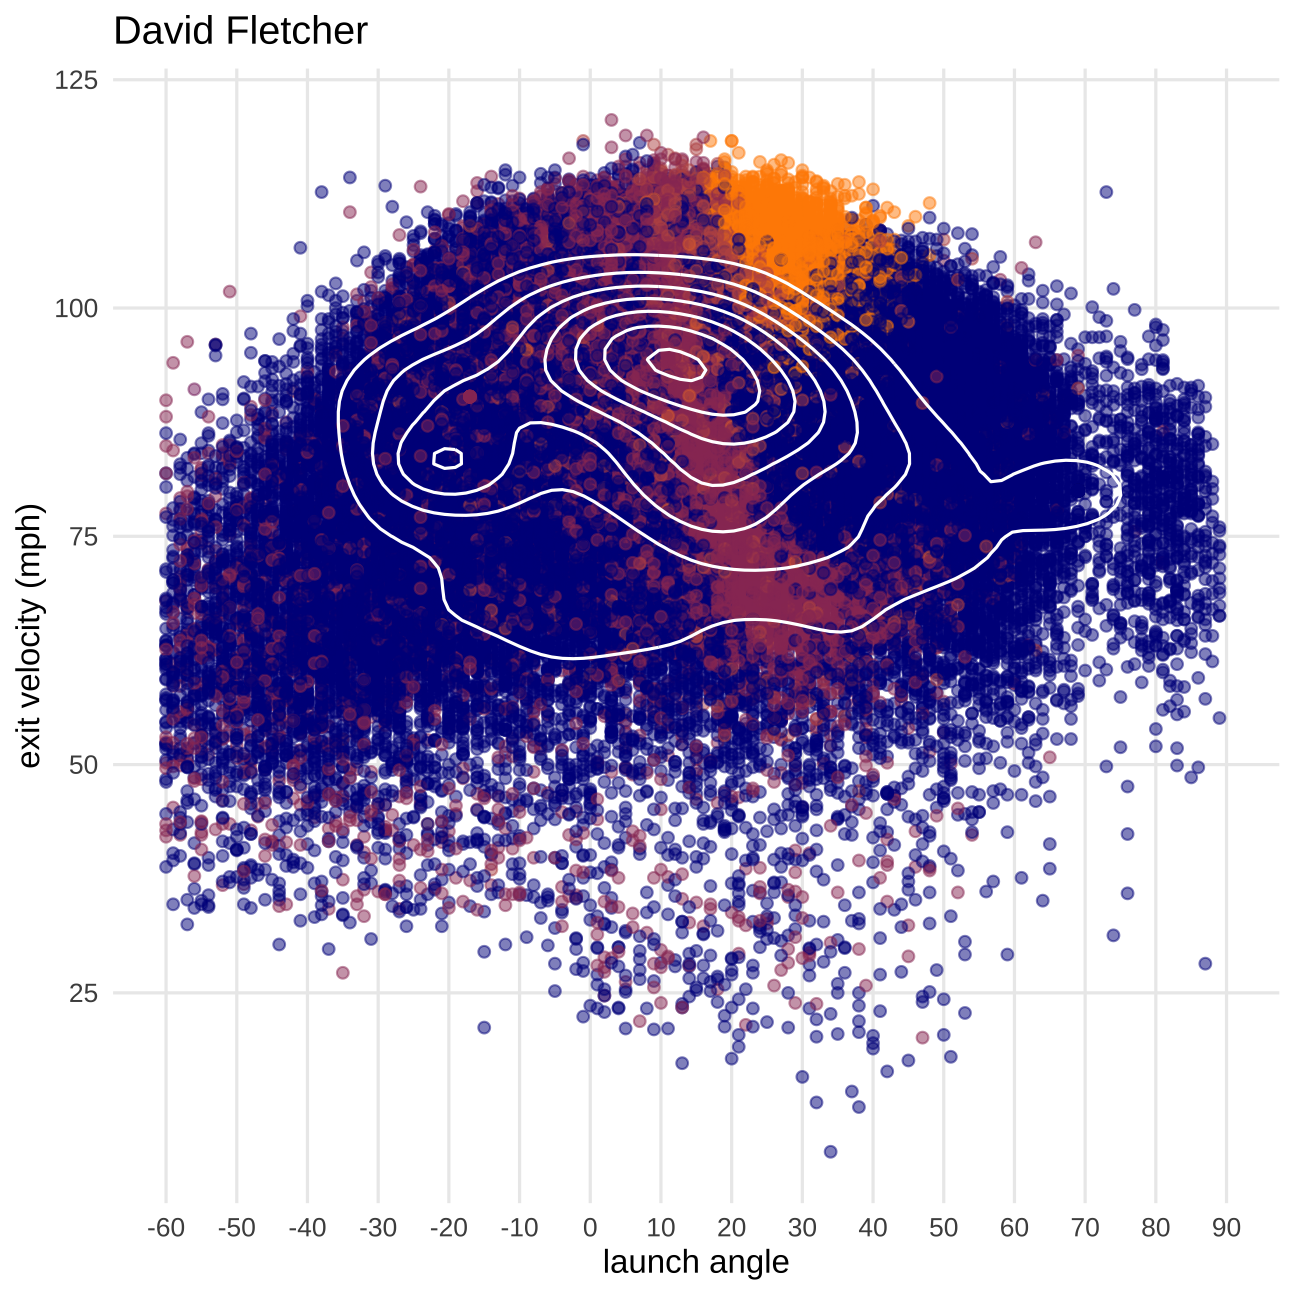
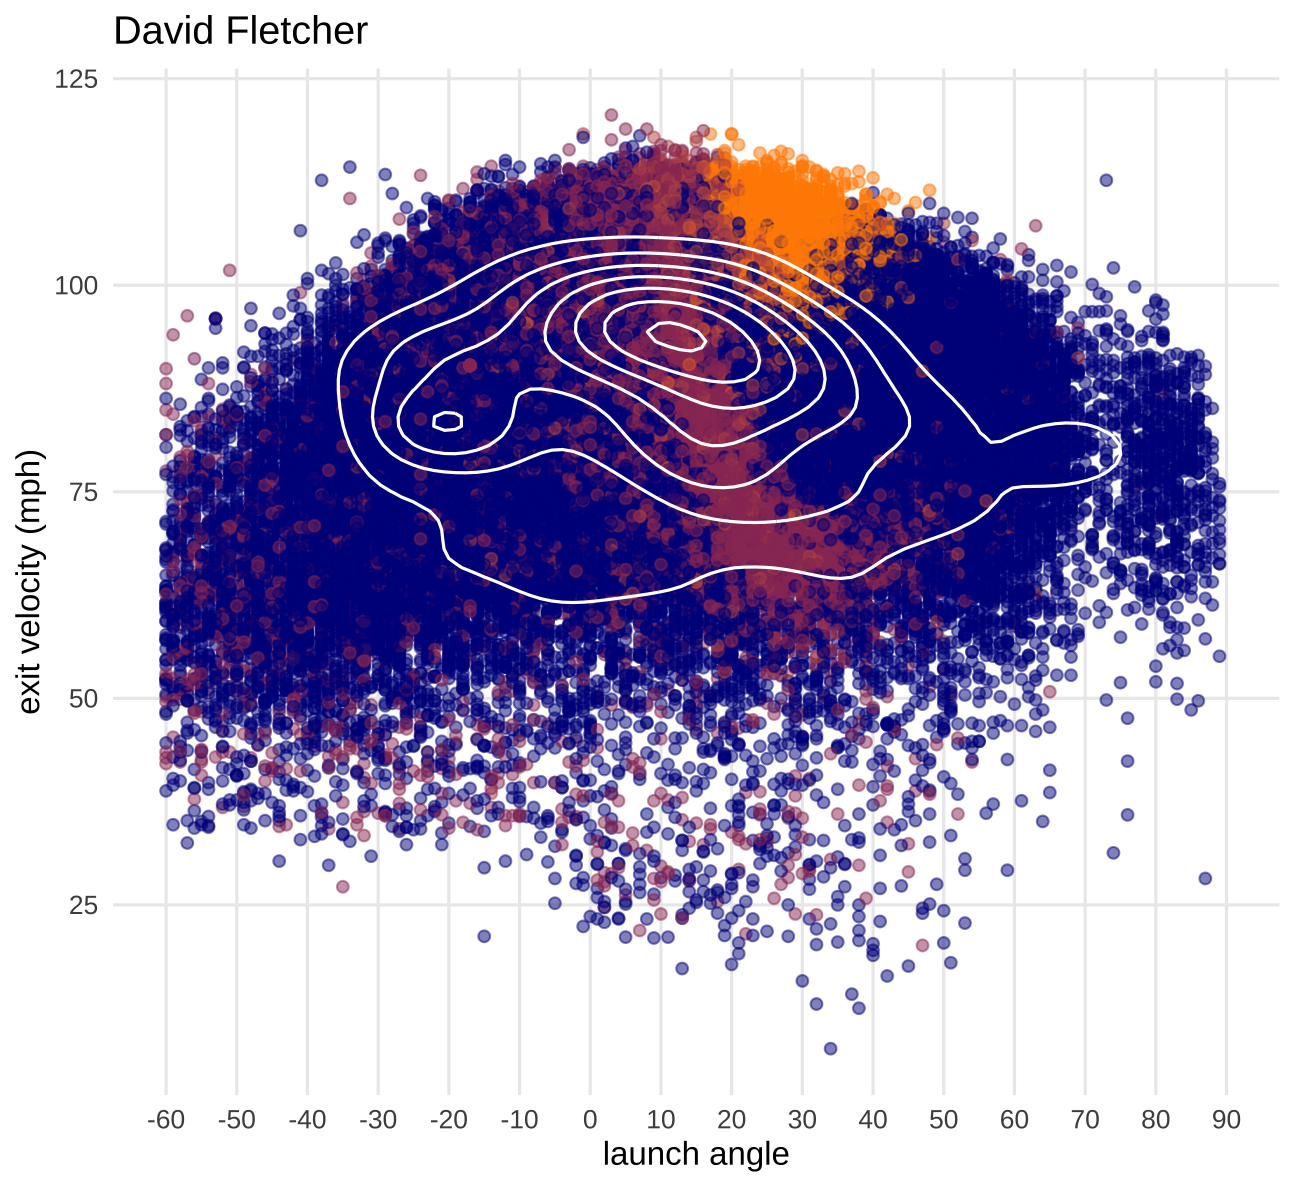
commiting presentation through trying to get function to work

diff --git a/Final EDA presentation/final_eda_presentation.html b/Final EDA presentation/final_eda_presentation.html
@@ -140,6 +140,41 @@ class: center, middle, inverse, title-slide
 &lt;img src="final_eda_presentation_files/figure-html/unnamed-chunk-11-1.png" width="432" style="display: block; margin: auto;" /&gt;
 ]
 ---
+### Now how can we model these player recommendations? 
+
+.pull-left[
+- We will fit a **Generalized Additive Model, or GAM**, to **launch angle** and 
+**exit velocity** with the target **wOBA**
+  - GAMs have the ability to model complex *non-linear and non-monotonic* relationships between predictors and response variables, such as we see when we smooth the relationship between predictors **exit velocity** and **launch angle** with **wOBA**. 
+]
+.pull-right[
+&lt;img src="final_eda_presentation_files/figure-html/unnamed-chunk-12-1.png" width="432" /&gt;
+
+&lt;img src="final_eda_presentation_files/figure-html/unnamed-chunk-13-1.png" width="432" /&gt;
+]
+---
+### Our first model missed out on the relationship *between* launch angle and exit velocity in impacting wOBA
+
+.pull-left[
+**Actual relationship**
+&lt;img src="final_eda_presentation_files/figure-html/unnamed-chunk-14-1.png" width="432" /&gt;
+
+]
+.pull-right[
+**Raster plot from wOBA as a function of s(launch angle) + s(exit velocity)**
+&lt;img src="final_eda_presentation_files/figure-html/unnamed-chunk-15-1.png" width="432" /&gt;
+]
+---
+### With an interaction in our model, we much better true relationships, such as the increased wOBA from extra base hits and the band of singles
+
+.pull-left[
+**Actual relationship**
+&lt;img src="final_eda_presentation_files/figure-html/unnamed-chunk-16-1.png" width="432" /&gt;
+]
+.pull-right[
+**Raster plot from wOBA as a function of s(launch angle, exit velocity, k=100)**
+&lt;img src="final_eda_presentation_files/figure-html/unnamed-chunk-17-1.png" width="432" /&gt;
+]
     </textarea>
 <style data-target="print-only">@media screen {.remark-slide-container{display:block;}.remark-slide-scaler{box-shadow:none;}}</style>
 <script src="https://remarkjs.com/downloads/remark-latest.min.js"></script>
